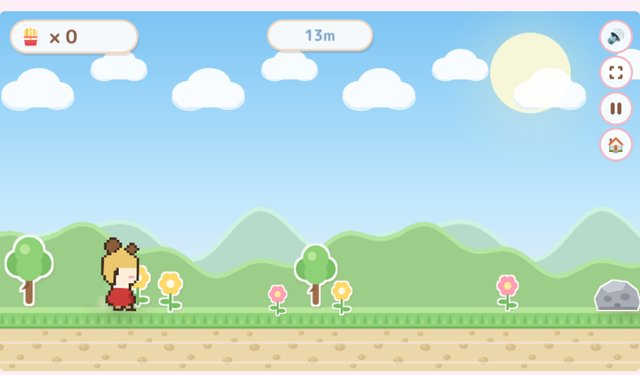
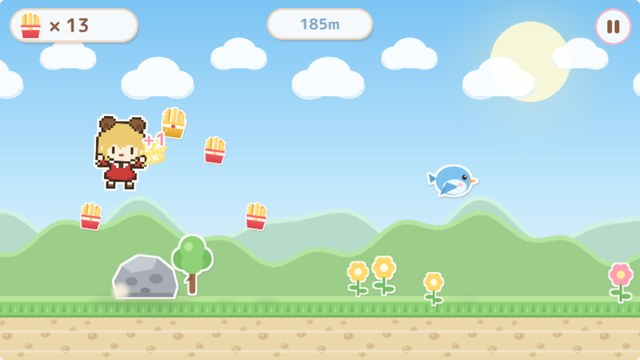
ポータル: せなくまランのサムネイルを新しい主人公の画面に差し替え
README のポータルの進捗表記と、縦持ち時の操作説明も現状に合わせる

Claude-Session: https://claude.ai/code/session_01XZDEmbQYjNX3Fvoii456ag

diff --git a/README.md b/README.md
@@ -11,7 +11,7 @@ YouTuber「せなくま」さん（[せなくまチャンネル](https://www.you
 1. **せなくまラン 🍟** — 2D横スクロールランナー（Phaser 3）… **プレイ可能** ✅
 2. **せなくまとマンカラ 🥔** — せなくまと対戦するマンカラ（カラハ・ルール）… **プレイ可能** ✅
 3. **せなくまアイランド 🏝** — 3D箱庭探索ゲーム（Three.js + VRM）… 未着手
-4. **Webポータル** — 各ゲームの入口となるページ（GitHub Pagesで公開予定）… 未着手
+4. **Webポータル** — 各ゲームの入口となるページ（`portal/`）… **公開用に実装済み** ✅
 
 ## 開発の始め方
 
@@ -37,6 +37,7 @@ npm run build          # 両ゲームの本番ビルド（games/*/dist/）
 着地の直前に押したジャンプは着地と同時に出ます（先行入力）。別のタブやアプリに
 切り替えると自動でポーズし、再開時は 3・2・1 のカウントダウンが入ります。
 音量・全画面・ホームへ戻るボタンはポーズ画面の中にあります。
+スマホを縦に持っているときは、ゲーム画面の外（上下の余白）をタップしてもジャンプできます。
 
 ### せなくまとマンカラ
 
